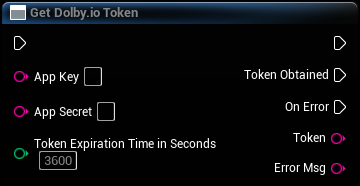
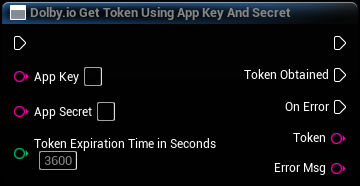
Rename "Get Dolby.io Token" to "Dolby.io Get Token Using App Key And Secret"

Changed region(s): [[0.3667, 0.0269, 0.825, 0.1075], [0.0611, 0.0269, 0.275, 0.1075]]

diff --git a/DolbyIO/Source/Public/DolbyIOAuthentication.h b/DolbyIO/Source/Public/DolbyIOAuthentication.h
@@ -17,7 +17,7 @@ class DOLBYIO_API UDolbyIOGetTokenFromURL : public UBlueprintAsyncActionBase
 	GENERATED_BODY()
 
 public:
-	/** Gets a Dolby.io client access token.
+	/** Gets a Dolby.io client access token from a URL.
 	 *
 	 * For convenience during early development and prototyping, this function is provided to acquire an client access
 	 * token directly from the game.
@@ -53,7 +53,7 @@ class DOLBYIO_API UGetDolbyIOToken : public UBlueprintAsyncActionBase
 	GENERATED_BODY()
 
 public:
-	/** Gets a Dolby.io client access token.
+	/** Gets a Dolby.io client access token using an app key and secret combination.
 	 *
 	 * For convenience during early development and prototyping, this function is provided to acquire an client access
 	 * token directly from the game.
@@ -68,7 +68,7 @@ public:
 	 * @param TokenExpirationTimeInSeconds - The token's expiration time (in seconds).
 	 */
 	UFUNCTION(BlueprintCallable, Category = "Dolby.io Comms",
-	          Meta = (BlueprintInternalUseOnly = "true", DisplayName = "Get Dolby.io Token"))
+	          Meta = (BlueprintInternalUseOnly = "true", DisplayName = "Dolby.io Get Token Using App Key And Secret"))
 	static UGetDolbyIOToken* GetDolbyIOToken(const FString& AppKey, const FString& AppSecret,
 	                                         int TokenExpirationTimeInSeconds = 3600);
 

diff --git a/docs/docs/blueprints/functions.md b/docs/docs/blueprints/functions.md
@@ -218,7 +218,7 @@ Gets the texture to which video from a given track is being rendered.
 
 ## Dolby.io Get Token From URL
 
-Gets a Dolby.io client access token.
+Gets a Dolby.io client access token from a URL.
 
 For convenience during early development and prototyping, this function is provided to acquire a client access token directly from the game.
 
@@ -235,6 +235,31 @@ For convenience during early development and prototyping, this function is provi
 | Event | When |
 |---|:---|
 | [**On Token Obtained**](events.md#on-token-obtained) | Successful |
+
+---
+
+## Dolby.io Get Token Using App Key And Secret
+
+Gets a Dolby.io client access token using an app key and secret combination.
+
+For convenience during early development and prototyping, this function is provided to acquire a client access token directly from the game.
+
+> ⚠ Using this function effectively distributes the permanent app credential with your Unreal application, which is not safe for production deployment. Follow our [security best practices](https://docs.dolby.io/communications-apis/docs/guides-client-authentication) to set up a server through which you can acquire a temporary client access token.
+
+![](../../static/img/generated/GetDolbyIOToken/img/nd_img_UK2Node_AsyncAction.png)
+
+#### Inputs and outputs
+| Name | Direction | Type | Default value | Description |
+|---|:---|:---|:---|:---|
+| **App Key** | Input | string | - | The app key. |
+| **App Secret** | Input | string | - | The app secret. |
+| **Token Expiration Time In Seconds** | Input | integer | 3600 (1 hour) | The token's expiration time (in seconds). |
+
+#### Triggered events
+| Event | When |
+|---|:---|
+| [**Token Obtained**](events.md#on-token-obtained) | Successful |
+| [**On Error**](events.md#on-error) | Errors occur |
 
 ---
 
@@ -415,7 +440,7 @@ The larger the scale, the longer the distance at which the spatial audio attenua
 
 Initializes or refreshes the client access token. Initializes the plugin unless already initialized.
 
-For quick testing, you can manually obtain a token from the [Dolby.io dashboard](https://dashboard.dolby.io) and paste it directly into the node or use the [Get Dolby.io Token](#get-dolbyio-token) function.
+For quick testing, you can manually obtain a token from the [Dolby.io dashboard](https://dashboard.dolby.io) and paste it directly into the node. Alternatively, you can obtain a token using the [Dolby.io Get Token From URL](#dolbyio-get-token-from-url) function or the [Dolby.io Get Token Using App Key And Secret](#dolbyio-get-token-using-app-key-and-secret) function.
 
 ![](../../static/img/generated/DolbyIOSetToken/img/nd_img_UK2Node_AsyncAction.png)
 
@@ -524,30 +549,3 @@ Updates information about the local participant.
 |---|:---|:---|:---|:---|
 | **User Name** | Input | String | - | The name of the participant. |
 | **Avatar URL** | Input | String | - | The URL of the participant's avatar. |
-
----
-
-## Get Dolby.io Token
-
-Gets a Dolby.io client access token.
-
-For convenience during early development and prototyping, this function is provided to acquire a client access token directly from the game.
-
-> ⚠ Using this function effectively distributes the permanent app credential with your Unreal application, which is not safe for production deployment. Follow our [security best practices](https://docs.dolby.io/communications-apis/docs/guides-client-authentication) to set up a server through which you can acquire a temporary client access token.
-
-![](../../static/img/generated/GetDolbyIOToken/img/nd_img_UK2Node_AsyncAction.png)
-
-#### Inputs and outputs
-| Name | Direction | Type | Default value | Description |
-|---|:---|:---|:---|:---|
-| **App Key** | Input | string | - | The app key. |
-| **App Secret** | Input | string | - | The app secret. |
-| **Token Expiration Time In Seconds** | Input | integer | 3600 (1 hour) | The token's expiration time (in seconds). |
-
-#### Triggered events
-| Event | When |
-|---|:---|
-| [**Token Obtained**](events.md#on-token-obtained) | Successful |
-| [**On Error**](events.md#on-error) | Errors occur |
-
----

diff --git a/docs/docs/tutorial/first-conference.md b/docs/docs/tutorial/first-conference.md
@@ -25,22 +25,22 @@ Select the added component and check its details in the `Details` panel. Scroll 
 2. Paste your client access token copied from the Dolby.io dashboard to the [`Dolby.io Set Token`](../blueprints/functions#dolbyio-set-token) node.
 
 ### Option B - Use authentication URL
-1. Place a [`Get Dolby.io Token From URL`](../blueprints/functions#dolbyio-get-token-from-url) node and connect it to the `On Token Needed (DolbyIOObserver)` node.
+1. Place a [`Dolby.io Get Token From URL`](../blueprints/functions#dolbyio-get-token-from-url) node and connect it to the `On Token Needed (DolbyIOObserver)` node.
 
-2. Place a [`Dolby.io Set Token`](../blueprints/functions#dolbyio-set-token) node and connect it to the [`Get Dolby.io Token From URL`](../blueprints/functions#dolbyio-get-token-from-url) node as shown below:
+2. Place a [`Dolby.io Set Token`](../blueprints/functions#dolbyio-set-token) node and connect it to the [`Dolby.io Get Token From URL`](../blueprints/functions#dolbyio-get-token-from-url) node as shown below:
 
 ![](../../static/img/first-conf-get-token-from-url.png)
 
-3. Provide your URL to the [`Get Dolby.io Token From URL`](../blueprints/functions#dolbyio-get-token-from-url) function.
+3. Provide your URL to the [`Dolby.io Get Token From URL`](../blueprints/functions#dolbyio-get-token-from-url) function.
 
 ### Option C - Use app key and secret
-1. Place a [`Get Dolby.io Token`](../blueprints/functions#get-dolbyio-token) node and connect it to the `On Token Needed (DolbyIOObserver)` node.
+1. Place a [`Dolby.io Get Token Using App Key And Secret`](../blueprints/functions#dolbyio-get-token-using-app-key-and-secret) node and connect it to the `On Token Needed (DolbyIOObserver)` node.
 
-2. Place a [`Dolby.io Set Token`](../blueprints/functions#dolbyio-set-token) node and connect it to the [`Get Dolby.io Token`](../blueprints/functions#get-dolbyio-token) node as shown below:
+2. Place a [`Dolby.io Set Token`](../blueprints/functions#dolbyio-set-token) node and connect it to the [`Dolby.io Get Token Using App Key And Secret`](../blueprints/functions#dolbyio-get-token-using-app-key-and-secret) node as shown below:
 
-![](../../static/img/first-conf-get-token.png)
+![](../../static/img/first-conf-get-token-using-key-secret.png)
 
-3. Provide your app key and app secret to the [`Get Dolby.io Token`](../blueprints/functions#get-dolbyio-token) function.
+3. Provide your app key and app secret to the [`Dolby.io Get Token Using App Key And Secret`](../blueprints/functions#dolbyio-get-token-using-app-key-and-secret) function.
 
 ## 4. Connect to demo conference
 Place a [`Dolby.io Demo Conference`](../blueprints/functions#dolbyio-demo-conference) node and connect it to the [`Dolby.io Set Token`](../blueprints/functions#dolbyio-set-token) node as shown below:
